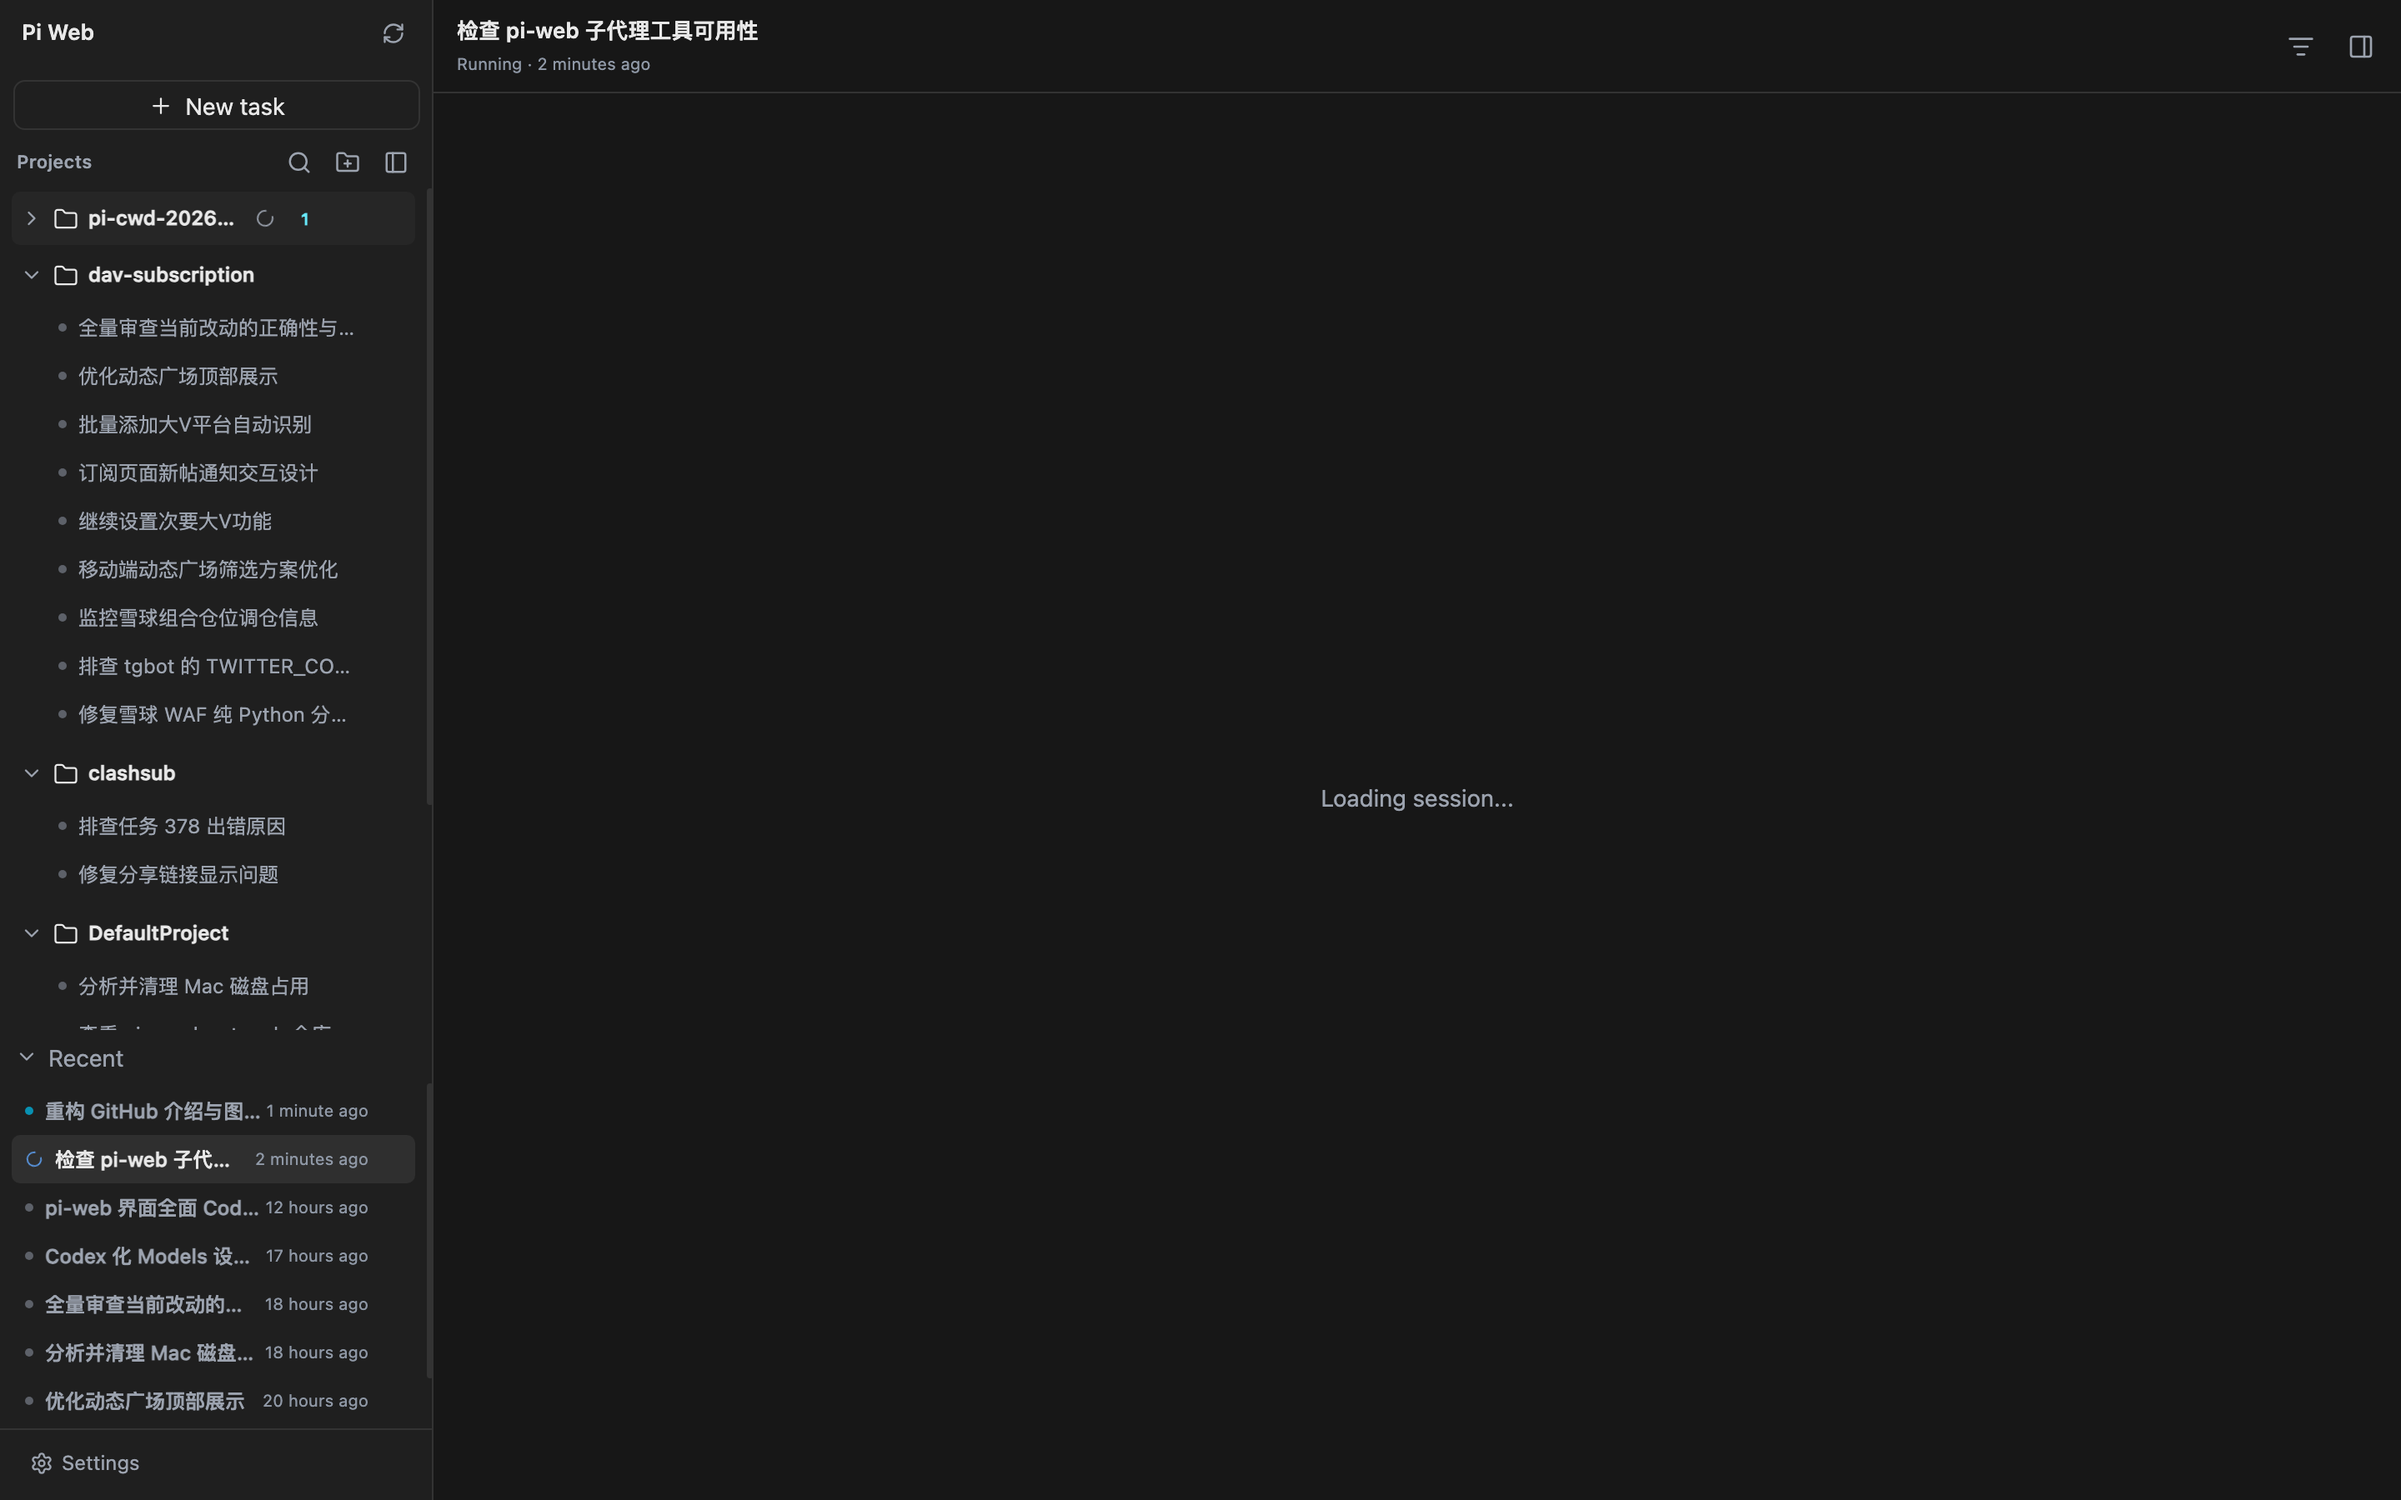
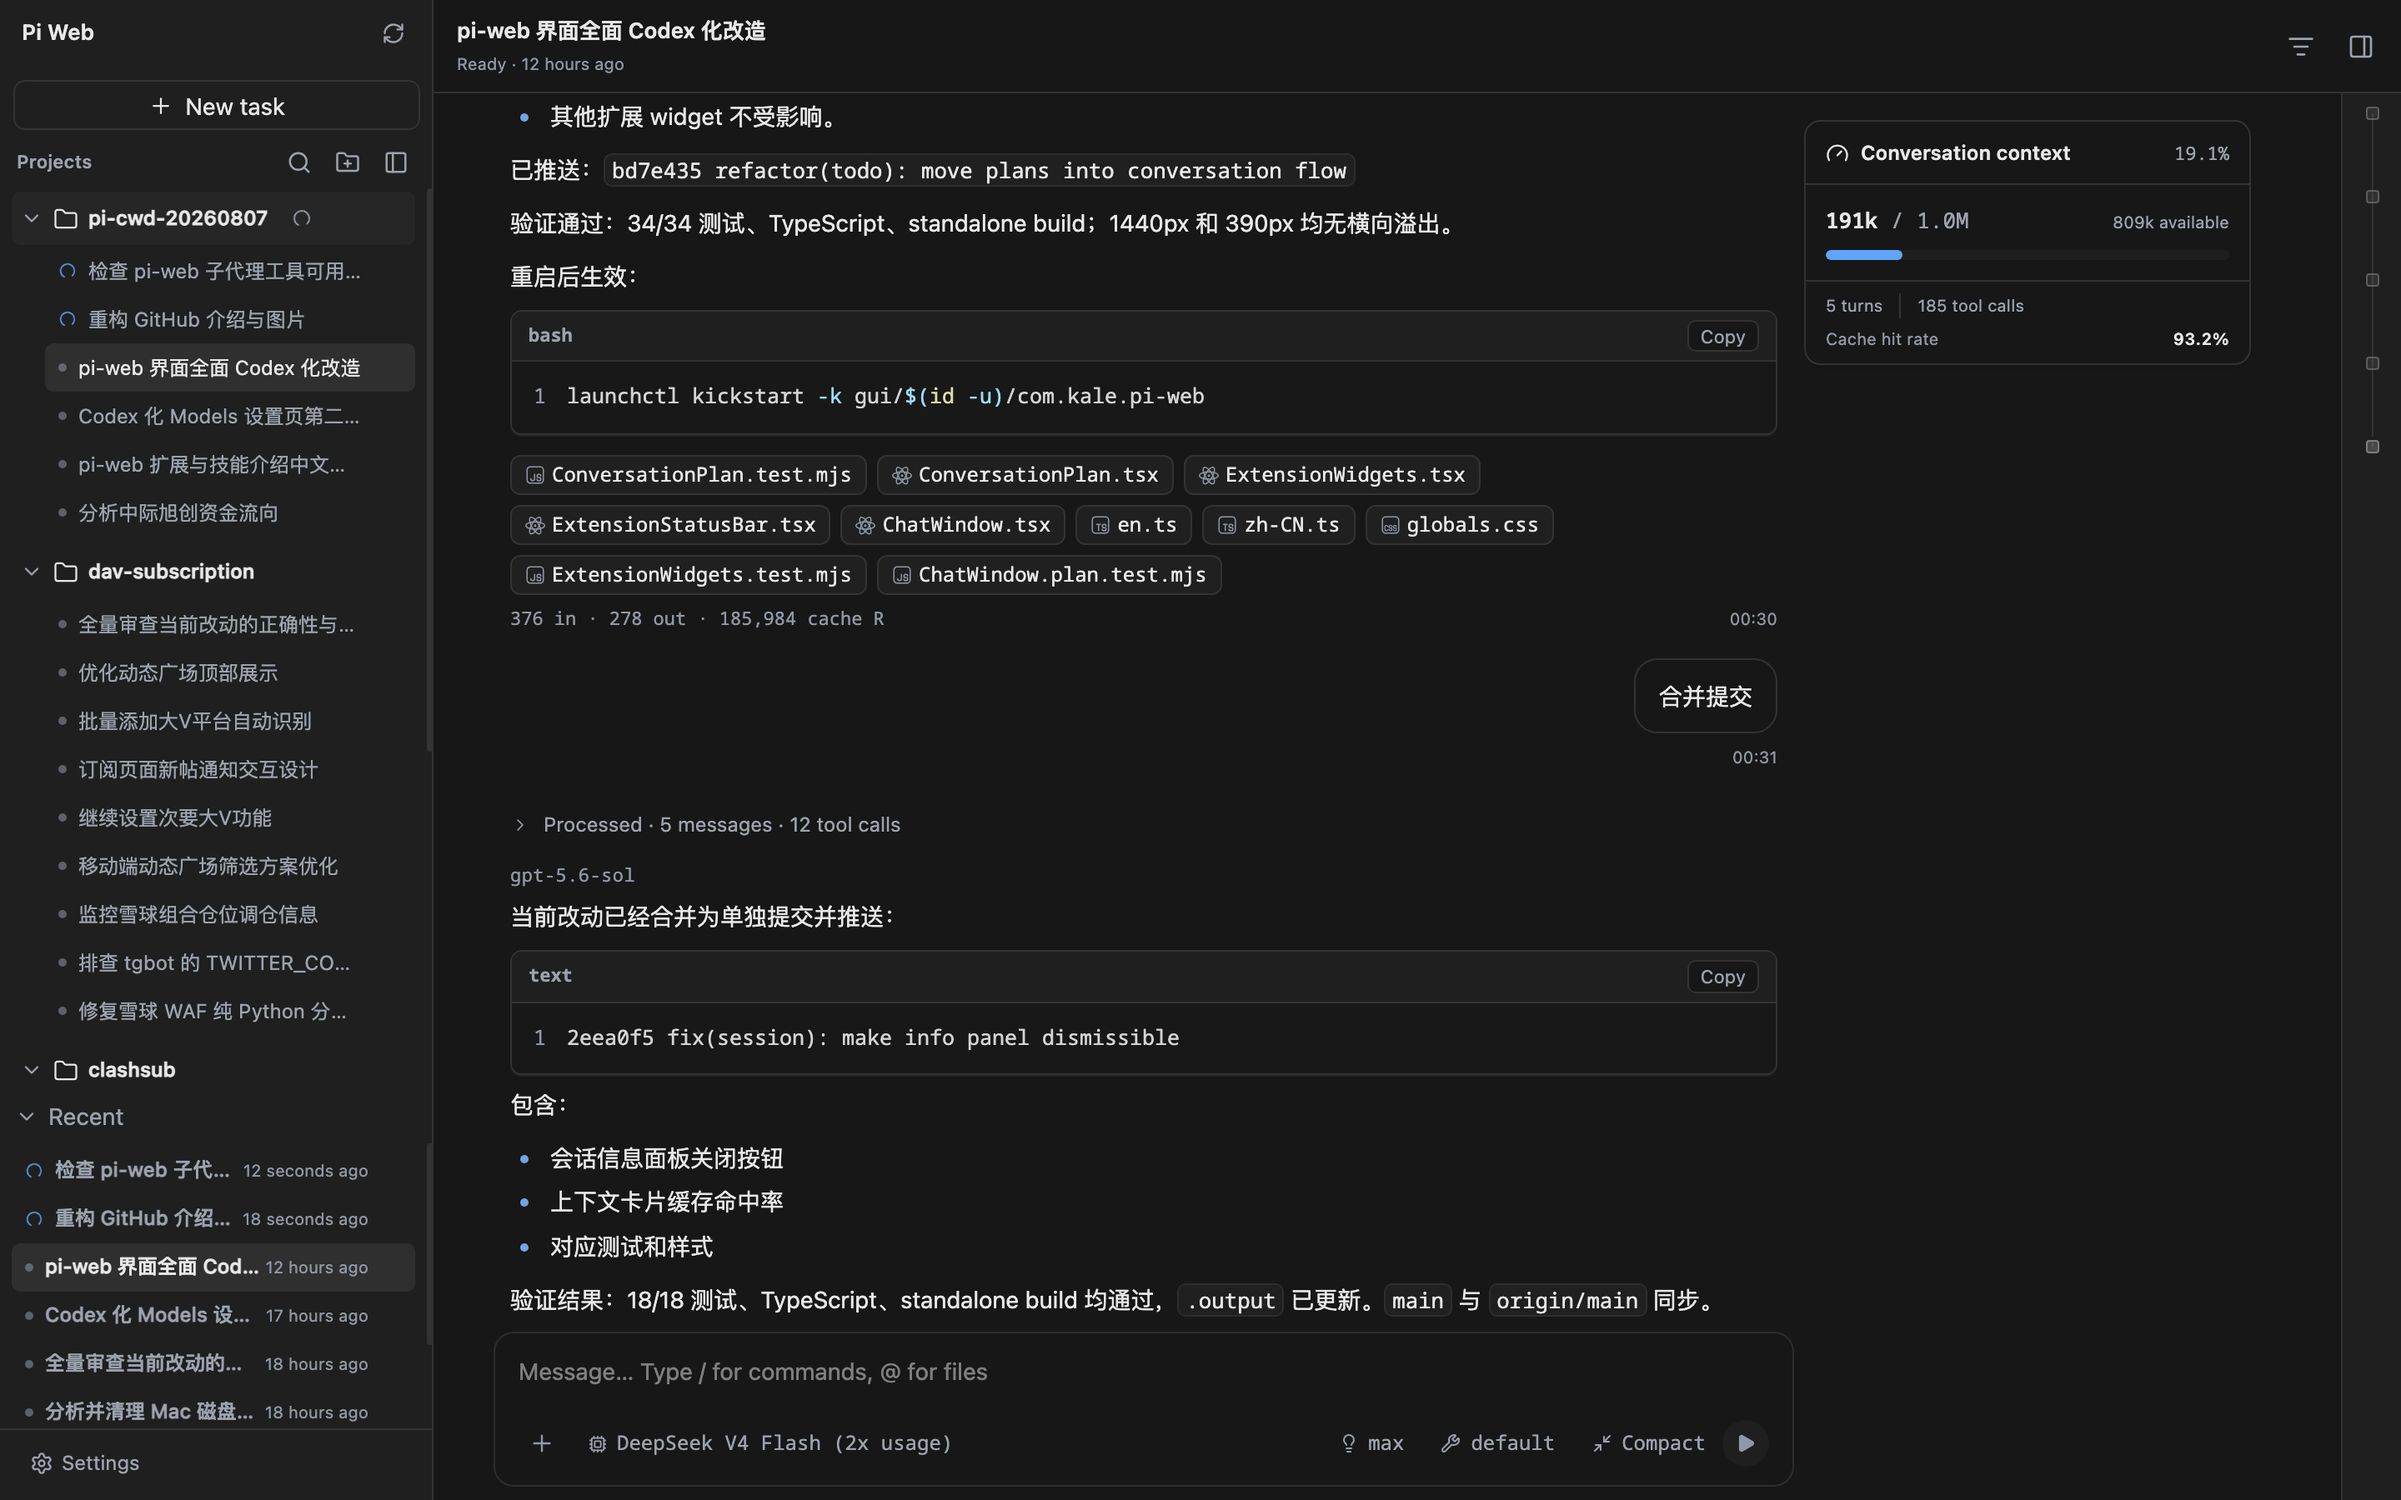
docs: refresh GitHub landing for the current workspace
Keep English and Simplified Chinese only. Replace the handbook README
with a short landing page, one current dark desktop screenshot, and
the new non-loopback password rule. Drop the unused extra images.

diff --git a/docs/superpowers/specs/2026-08-14-github-readme-landing-design.md b/docs/superpowers/specs/2026-08-14-github-readme-landing-design.md
@@ -1,0 +1,19 @@
+# GitHub README landing refresh
+
+Date: 2026-08-14
+
+## Goal
+
+Replace the post-migration handbook README with a quiet product landing page. Keep only English and Simplified Chinese. One current dark desktop screenshot.
+
+## Decisions
+
+- Structure B: short landing + install + remote-access warning + data/safety + doc links.
+- One hero: 1440×900 dark English UI, sidebar + transcript + context card.
+- Delete `README.ja.md`, `README.ru.md`, `docs/pi-web-projects.png`, `docs/pi-web-settings.png`, `docs/screenshot2.png`.
+- `package.json#files` and the staged package test drop the Japanese/Russian READMEs.
+- GitHub About: `Local browser workspace for the pi coding agent`.
+
+## Out of scope
+
+Architecture dump, repository layout, downstream session-menu recipe, long proxy examples.

diff --git a/README.md b/README.md
@@ -10,7 +10,7 @@ npx @agegr/pi-web@latest
 
 Requires Node.js 22.19.0 or newer. Pi Web opens the browser when ready and listens only on `127.0.0.1` by default.
 
-![Pi Web desktop workspace: project sidebar, conversation with tool activity, and session context](./docs/pi-web-workspace.png)
+![Pi Web desktop workspace: project sidebar, conversation with tool activity, and context card](./docs/pi-web-workspace.png)
 
 - **Projects and sessions** — search, pin, archive, rename, export, or delete without leaving the sidebar.
 - **Live agent work** — streamed thinking and tool calls, plus completion feedback when a run finishes in another project.

diff --git a/README.zh-CN.md b/README.zh-CN.md
@@ -12,7 +12,7 @@ npx @agegr/pi-web@latest
 
 中文微信群：[GitHub Discussions](https://github.com/agegr/pi-web/discussions/271)。
 
-![Pi Web 桌面工作区：项目侧栏、带工具活动的对话、会话上下文](./docs/pi-web-workspace.png)
+![Pi Web 桌面工作区：项目侧栏、带工具活动的对话、右侧上下文卡片](./docs/pi-web-workspace.png)
 
 - **项目与会话** — 搜索、置顶、归档、重命名、导出或删除，都在侧栏完成。
 - **实时智能体** — 流式 thinking 与工具调用；其他项目里的任务结束也会提示。
